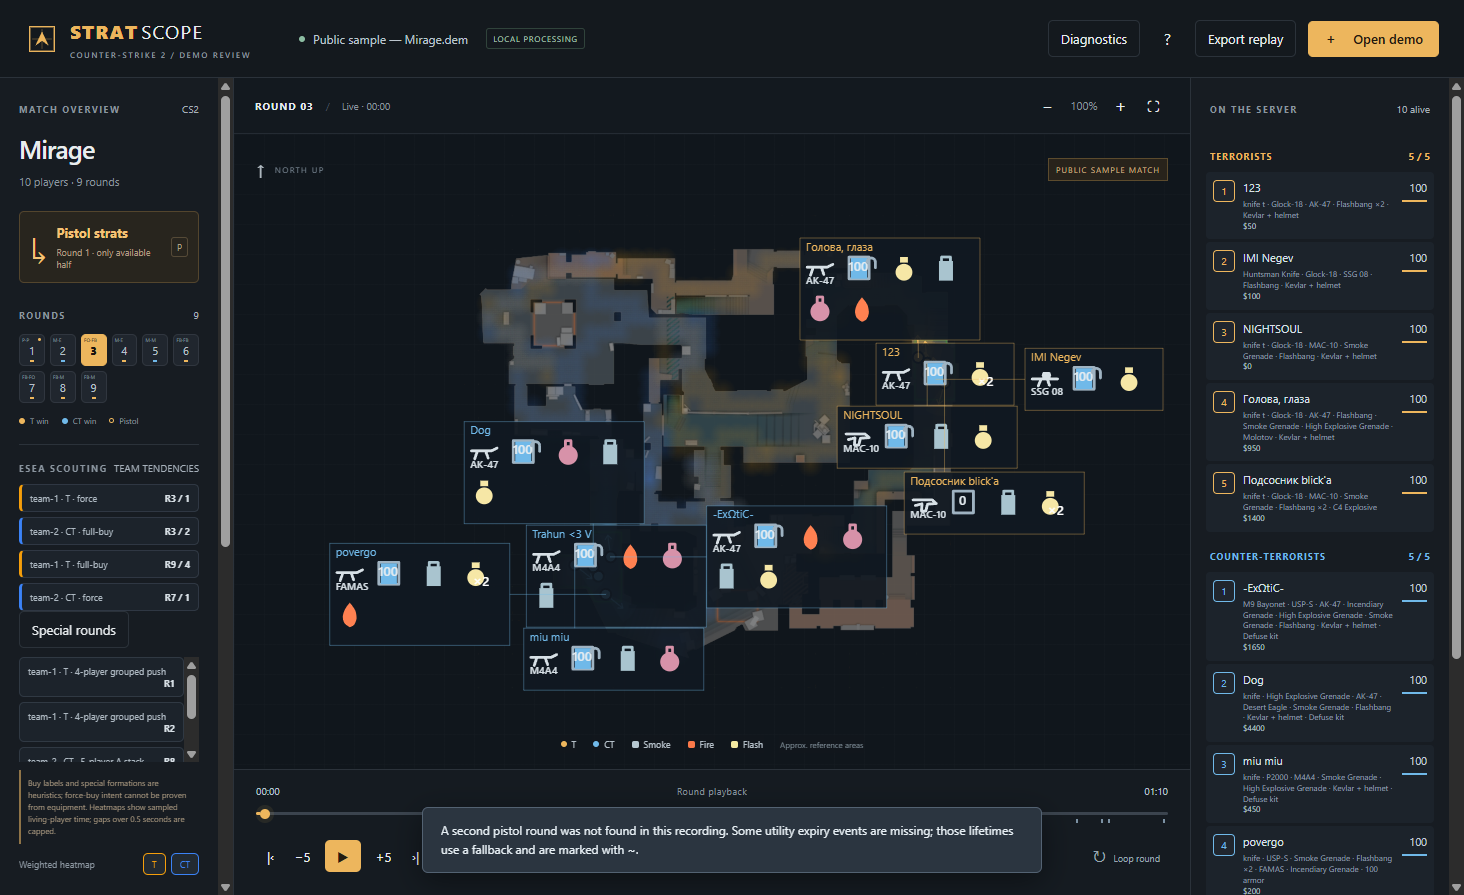
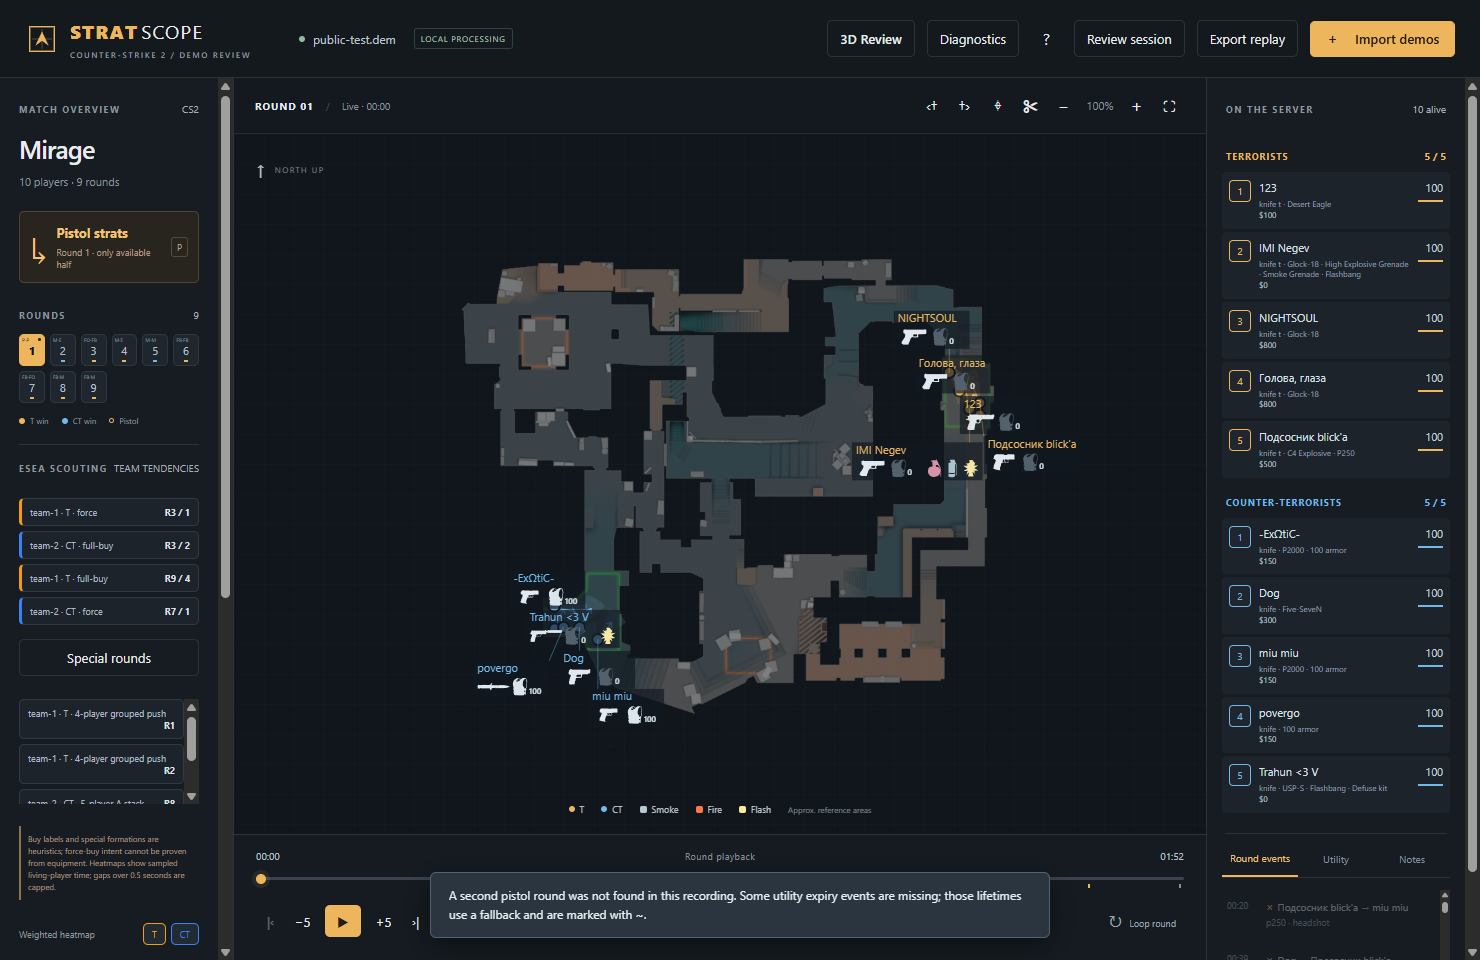
Wire 1.2.0 sessions, scouting and statistics into the viewer

diff --git a/web/style.css b/web/style.css
@@ -1,4 +1,5 @@
 @import url('data:text/css,');
+@import url('./scouting.css');
 :root{color-scheme:dark;--bg:#101419;--panel:#171c22;--panel2:#1c232b;--line:#2b323a;--muted:#8a959f;--text:#e9edef;--accent:#edb65d;--t:#edb65d;--ct:#70b9e9;--fire:#fb7949;--smoke:#b6c8d1;--flash:#f3e9a0;font-family:Inter,Segoe UI,Arial,sans-serif;font-size:13px}*{box-sizing:border-box}body{margin:0;background:var(--bg);color:var(--text)}button,input,select,textarea{font:inherit}button,.button,select{border:1px solid var(--line);border-radius:5px;background:var(--panel2);color:var(--text)}button,.button{cursor:pointer;transition:background .15s,border-color .15s}button:hover,.button:hover{background:#2c3540;border-color:#55616c}button:disabled{opacity:.35;cursor:default}button:focus-visible,input:focus-visible,select:focus-visible,textarea:focus-visible,summary:focus-visible{outline:2px solid var(--accent);outline-offset:3px}button:disabled:hover{background:var(--panel2);border-color:var(--line)}a{color:inherit}button,input{accent-color:var(--accent)}[hidden]{display:none!important}.topbar{height:78px;padding:0 25px;display:flex;align-items:center;gap:12px;border-bottom:1px solid var(--line);background:#14191e}.brand{text-decoration:none;display:flex;align-items:center;gap:11px;color:var(--accent);font-size:19px;font-weight:800;letter-spacing:1.2px;white-space:nowrap}.brand-light{color:var(--text);font-weight:400;margin-left:3px}.brand small{display:block;color:var(--muted);font-size:8px;font-weight:500;letter-spacing:1.6px;margin-top:5px}.file-context{margin-left:36px;display:flex;align-items:center;gap:8px;flex:1;min-width:0;font-size:12px;color:#bdc6ce}#file-name{white-space:nowrap;overflow:hidden;text-overflow:ellipsis;max-width:360px}.status-dot{display:inline-block;flex-shrink:0;width:6px;height:6px;border-radius:50%;background:#8cbda2}.local-badge{margin-left:10px;border:1px solid #30433b;border-radius:3px;color:#a6c2b0;padding:4px 6px;font-size:8px;letter-spacing:.8px;white-space:nowrap}.button{display:inline-flex;align-items:center;justify-content:center;gap:16px;min-height:36px;padding:8px 15px;text-decoration:none;font-weight:600}.primary{background:var(--accent);color:#211a0e;border-color:var(--accent)}.primary:hover{background:#f8cb83;border-color:#f8cb83}.quiet{padding:9px 12px;background:transparent}.icon-button{display:inline-flex;justify-content:center;align-items:center;background:transparent;border-color:transparent;width:31px;height:31px;font-size:16px;flex-shrink:0}.text-button{border:0;background:transparent;color:var(--muted);padding:3px;font-size:11px}.text-button:hover{background:transparent;color:var(--text)}.workspace{height:calc(100dvh - 78px);min-height:650px;display:grid;grid-template-columns:234px minmax(450px,1fr) 274px}.left-panel,.right-panel{background:var(--panel);padding:24px 19px 15px;display:flex;flex-direction:column;min-width:0;overflow:auto}.left-panel{border-right:1px solid var(--line)}.right-panel{border-left:1px solid var(--line)}.section-label{font-size:9px;letter-spacing:1.5px;color:var(--muted);display:flex;align-items:center;justify-content:space-between;font-weight:700}.section-label>span{font-size:10px;letter-spacing:0;font-weight:400;color:#a6b0ba}.map-title{margin:16px 0 22px}.map-title h1{font-size:25px;letter-spacing:-.8px;font-weight:600;margin:0 0 7px}.map-title>span{color:var(--muted);font-size:11px}.pistol-button{width:100%;display:flex;align-items:center;gap:10px;padding:12px 10px;text-align:left;background:#28251e;border:1px solid #53452d;color:#f4c376;font-size:13px;font-weight:650}.pistol-button small{display:block;font-size:9px;color:#af9d83;font-weight:400;margin-top:5px}.pistol-button:hover,.pistol-button.active{background:#3b3021;border-color:var(--accent)}.pistol-symbol{font-size:29px;font-weight:400;line-height:20px}.key-tag{margin-left:auto;border:1px solid #554a37;color:#b1a289;font-size:9px;border-radius:3px;padding:3px 5px;font-weight:400}.rounds-heading{margin:25px 0 12px}.round-grid{display:grid;grid-template-columns:repeat(6,minmax(0,1fr));gap:5px;max-height:185px;overflow:auto}.round-button{height:32px;position:relative;background:#20262e;font-size:11px;padding:0;color:#b7c0c9;border-color:#30363f;font-variant-numeric:tabular-nums}.round-button.selected{color:#17140e;background:var(--accent);border-color:var(--accent);font-weight:800}.round-button .win-dot{position:absolute;bottom:3px;left:calc(50% - 2px);width:4px;height:2px;border-radius:0}.round-button.pistol:before{content:"";position:absolute;right:3px;top:3px;width:3px;height:3px;background:var(--accent);border-radius:50%}.round-button.pistol.selected:before{background:#272016}.round-legend{display:flex;align-items:center;gap:5px;font-size:8px;color:var(--muted);margin-top:12px}.round-legend i:not(:first-child){margin-left:8px}.dot{display:inline-block;width:6px;height:6px;border-radius:50%;flex-shrink:0}.t{background:var(--t)}.ct{background:var(--ct)}.pistol-dot{width:5px;height:5px;border:1px solid var(--accent);border-radius:50%}.divider{border-top:1px solid var(--line);margin:22px 0}.muted{color:var(--muted)}.micro{font-size:10px;line-height:1.6}.placeholder-text{grid-column:1/-1;font-size:11px;line-height:1.9;margin:12px 0 8px}select{width:100%;padding:9px 10px;background:#1d242c;color:#c8d0d7;font-size:11px}#team-filter{margin-top:11px}.layer-heading{margin:16px 0 9px}.toggle-row{display:flex;justify-content:space-between;align-items:center;padding:8px 0;color:#bcc5cd;font-size:11px;cursor:pointer;position:relative}.toggle-row input{position:absolute;opacity:0;width:31px;height:20px;right:0}.toggle-row i{height:14px;width:26px;background:#39414a;border-radius:9px;position:relative}.toggle-row i:after{content:"";position:absolute;background:#9aa5ae;height:10px;width:10px;top:2px;left:2px;border-radius:50%;transition:left .15s}.toggle-row input:checked+i{background:#665435}.toggle-row input:checked+i:after{background:var(--accent);left:14px}.toggle-row input:focus-visible+i{outline:2px solid var(--accent);outline-offset:3px}.panel-foot{margin-top:auto;padding-top:22px;color:#7e8b95;line-height:2.1;font-size:9px}.panel-foot .status-dot{margin-right:5px;width:5px;height:5px}.panel-foot button{padding:0;font-size:9px}.viewer{display:flex;flex-direction:column;min-width:0;min-height:0}.viewer-toolbar{height:56px;flex-shrink:0;padding:0 21px;display:flex;align-items:center;justify-content:space-between;border-bottom:1px solid #242b33;background:#13191f;gap:10px}.round-info{display:flex;gap:12px;font-size:10px;align-items:center;white-space:nowrap}#round-label{font-weight:700;letter-spacing:1px}.separator{color:#4b5660}#phase{color:var(--muted);font-variant-numeric:tabular-nums}.view-tools{display:flex;align-items:center;gap:2px}#floor-select{width:auto;max-width:150px;margin-right:8px;padding:5px;font-size:10px}#zoom-reset{min-width:38px;font-variant-numeric:tabular-nums}.map-wrap{flex:1;min-height:350px;position:relative;overflow:hidden;background-color:#10161c;background-image:linear-gradient(#ffffff03 1px,transparent 1px),linear-gradient(90deg,#ffffff03 1px,transparent 1px);background-size:30px 30px}canvas{width:100%;height:100%;display:block;touch-action:none;cursor:grab}canvas.dragging{cursor:grabbing}.map-corner{position:absolute;top:22px;left:22px;font-size:8px;color:#75828e;letter-spacing:1.4px;pointer-events:none;display:flex;align-items:center;gap:8px}.north-arrow{font-size:20px;color:#b6c0c7}.sample-badge{position:absolute;top:24px;right:22px;color:#c3ab80;background:#28231b;border:1px solid #5c4b2d;padding:5px 7px;font-size:8px;letter-spacing:1px}.map-legend{position:absolute;bottom:16px;left:0;right:0;display:flex;justify-content:center;gap:15px;font-size:9px;color:#b5c0c9;pointer-events:none;flex-wrap:wrap}.map-legend>span{display:flex;align-items:center;gap:5px;background:#11171bcc;padding:3px 1px}.utility-dot{width:7px;height:7px;border-radius:2px;display:inline-block}.smoke{background:var(--smoke)}.fire{background:var(--fire)}.flash{background:var(--flash)}.approx-label{color:#7d8b96!important;font-size:8px}.empty-state,.loading-state{position:absolute;left:50%;top:48%;transform:translate(-50%,-50%);text-align:center;width:430px;max-width:90%;padding:35px 25px;background:#12191ee8;border:1px solid #3a4246;border-radius:8px;box-shadow:0 20px 100px #0008}.eyebrow{font-size:9px;letter-spacing:2.2px;color:var(--accent);font-weight:600}.empty-state h2{font-size:35px;font-weight:500;letter-spacing:-1.5px;line-height:1.12;margin:16px 0}.empty-state p{font-size:12px;line-height:1.8;color:#9daab4;margin:0 0 24px}.empty-state .button{padding:12px 22px;font-size:12px}.sample-link{display:block;margin:19px auto 0;border:0;background:none;color:#adb9c2;font-size:11px;padding:4px}.sample-link:hover{background:none;color:var(--accent)}.file-note{display:block;margin-top:28px;font-size:8px;letter-spacing:1px;color:#778590}.loading-state h2{font-size:22px;font-weight:500}.loading-state p{font-size:12px;color:#a6b4bf}.loading-state progress{width:85%;height:5px;margin:15px auto;border:0;accent-color:var(--accent)}progress::-webkit-progress-bar{background:#35404a}progress::-webkit-progress-value{background:var(--accent)}.spinner{width:25px;height:25px;margin:0 auto;border:2px solid #54472d;border-top-color:var(--accent);border-radius:50%;animation:spin 1s linear infinite}@keyframes spin{to{transform:rotate(360deg)}}.map-error{position:absolute;left:50%;top:45%;transform:translate(-50%,-50%);width:80%;padding:20px;text-align:center;font-size:13px;line-height:1.7;background:#241d18e8;border:1px solid #b78549;color:#f0cfa4;border-radius:5px}.playback{border-top:1px solid var(--line);background:#151b21;padding:14px 22px 18px;height:126px;flex-shrink:0}.timeline-info{display:flex;align-items:center;justify-content:space-between;font-size:10px;font-variant-numeric:tabular-nums;color:#b8c3cd}#mode-label{font-size:9px;color:var(--muted);letter-spacing:.5px}.timeline-wrap{position:relative;height:25px;margin:3px 0 10px;display:flex;align-items:center}#timeline{width:100%;margin:0;cursor:pointer;position:relative;z-index:2;height:15px;appearance:none;background:transparent}#timeline::-webkit-slider-runnable-track{height:3px;background:linear-gradient(to right,var(--accent) var(--played,0%),#3b444e var(--played,0%));border-radius:3px}#timeline::-webkit-slider-thumb{appearance:none;width:10px;height:10px;border-radius:50%;background:var(--accent);margin-top:-3.5px;box-shadow:0 0 0 4px #edb65d16}#timeline::-moz-range-track{height:3px;background:#3b444e}#timeline::-moz-range-thumb{width:10px;height:10px;background:var(--accent);border:0}#event-marks{position:absolute;left:5px;right:5px;top:14px;height:10px;pointer-events:none}#event-marks i{position:absolute;top:4px;width:2px;height:4px;background:#7c8e9e}.playback-controls{display:flex;align-items:center;justify-content:space-between;gap:8px}.transport{display:flex;align-items:center;gap:3px}.transport .icon-button{font-size:13px;width:29px}.play-button{width:36px;height:32px;margin:0 5px;background:var(--accent);color:#251d10;border:0;font-size:14px}.play-button:hover{background:#f8cb83}.speeds{display:flex;border:1px solid #303943;border-radius:5px;padding:2px;gap:1px}.speeds button{background:transparent;border:0;font-size:10px;padding:6px 7px;color:#8f9ca6;min-width:32px}.speeds button.selected{background:#35404b;color:#f1f3f5}.loop-button{padding:7px;border-color:transparent;background:transparent;color:#99a7b1;font-size:17px;white-space:nowrap}.loop-button span{font-size:9px;vertical-align:middle;margin-left:3px}.loop-button.active{color:var(--accent);border-color:#5c4b2e;background:#2e281f}.right-panel{padding:24px 15px 14px}.right-panel>.section-label{margin:0 4px 16px}.team-head{font-size:9px;letter-spacing:1px;display:flex;justify-content:space-between;align-items:center;font-weight:700;margin:17px 4px 9px}.t-text{color:var(--t)}.ct-text{color:var(--ct)}.team-head span{font-size:10px;letter-spacing:0;font-variant-numeric:tabular-nums}.roster-placeholder p{color:var(--muted);font-size:11px;line-height:1.8;margin:18px 4px 35px}.player-row{display:flex;align-items:center;gap:8px;width:100%;border:1px solid transparent;padding:7px 6px;border-radius:4px;text-align:left;margin-bottom:3px;background:#1c232b;min-height:41px}.player-row.selected{border-color:var(--accent);background:#2e2b24}.player-row.dead{opacity:.42}.player-row.unfocused{opacity:.25}.player-number{height:22px;width:22px;border:1px solid currentColor;display:flex;align-items:center;justify-content:center;flex-shrink:0;border-radius:4px;font-size:10px;background:#ffffff04}.player-details{min-width:0;flex:1}.player-name{font-size:11px;display:block;white-space:nowrap;overflow:hidden;text-overflow:ellipsis;max-width:150px;color:#d9e1e7}.loadout{font-size:8px;color:#8f9ea9;display:block;margin-top:4px;white-space:nowrap;overflow:hidden;text-overflow:ellipsis}.player-hp{text-align:right;font-size:11px;font-variant-numeric:tabular-nums;color:#c3cdd6;min-width:23px}.hp-track{height:2px;background:#35414c;width:25px;margin-top:5px}.hp-fill{height:100%;background:currentColor}.right-panel .divider{margin:17px 3px}.right-tabs{display:flex;border-bottom:1px solid var(--line);margin-bottom:12px}.right-tabs button{flex:1;border:0;border-radius:0;background:none;color:#84939e;font-size:10px;padding:0 0 10px;white-space:nowrap}.right-tabs button.selected{color:#e8c17e;border-bottom:2px solid var(--accent)}.tab-panel{min-height:85px;flex:1;overflow:auto;scrollbar-width:thin}.event-feed{display:flex;flex-direction:column;gap:5px}.event-row{display:flex;gap:8px;width:100%;background:transparent;border:0;border-radius:3px;padding:8px 5px;text-align:left;font-size:10px;color:#b1bec9;align-items:flex-start}.event-row.future{opacity:.45}.event-row.active{background:#29343f}.event-time{font-size:9px;color:#768997;font-variant-numeric:tabular-nums;flex-shrink:0;min-width:31px;line-height:1.6}.event-row .event-body{line-height:1.6;min-width:0;overflow-wrap:anywhere}.event-row small{font-size:9px;color:#718390;display:block}.event-icon{color:var(--accent);font-size:11px;margin-right:4px}.utility-filters{display:flex;gap:2px;margin-bottom:10px;flex-wrap:wrap}.utility-filters button{font-size:9px;padding:5px;border:0;background:none;color:#83939f}.utility-filters button.selected{background:#303b46;color:#edf1f4}.right-foot{margin-top:auto;padding-top:15px;border-top:1px solid var(--line);display:flex;flex-wrap:wrap;align-items:center;justify-content:space-between;gap:9px;color:#80919e;font-size:10px}.shortcut-hint{font-size:8px;letter-spacing:.5px;width:100%;color:#647887}textarea{width:100%;resize:vertical;border:1px solid #3c4651;border-radius:4px;background:#141a20;color:#dce5eb;padding:10px;font-size:11px;line-height:1.5}textarea::placeholder{color:#667c8d}.secondary{background:#263340;color:#cbd9e3;border-color:#3b4a56}#add-note{margin:8px 0 14px;width:100%;font-size:10px;padding:6px}.note{padding:10px 5px;border-bottom:1px solid var(--line);font-size:11px;line-height:1.6;overflow-wrap:anywhere}.note-controls{display:flex;justify-content:space-between;margin-bottom:6px}.note-controls button{font-size:9px;background:transparent;border:0;color:var(--accent)}#toast{position:fixed;bottom:22px;left:50%;transform:translateX(-50%);max-width:620px;width:max-content;z-index:100;background:#2b3540;color:#e8f0f5;border:1px solid #536272;box-shadow:0 8px 30px #0006;border-radius:6px;padding:13px 18px;font-size:12px;line-height:1.6}#drop-overlay{position:absolute;inset:10px;background:#202c36ef;border:2px dashed var(--accent);border-radius:7px;display:flex;justify-content:center;align-items:center;flex-direction:column;font-size:26px;color:var(--accent);z-index:20;pointer-events:none}#drop-overlay span{font-size:12px;margin-top:15px;color:#a5b8c7}dialog{background:#1b242c;border:1px solid #4a5965;border-radius:9px;color:#bdccd6;width:620px;max-width:90vw;max-height:85vh;padding:28px;line-height:1.8;font-size:12px;box-shadow:0 20px 100px #0008}dialog::backdrop{background:#070c12aa;backdrop-filter:blur(3px)}.dialog-top{display:flex;justify-content:space-between;gap:10px;align-items:center}.dialog-top h2{font-size:25px;margin:0 0 10px;color:#eff3f6;letter-spacing:-.5px;font-weight:500}dialog h3{color:var(--accent);font-size:12px;margin-top:23px}dialog li{margin:8px 0}dialog strong{color:#e2eaf0}dialog summary{cursor:pointer;color:#d9b77f}.keyboard-grid{display:grid;grid-template-columns:100px 1fr;gap:6px}.keyboard-grid span:nth-child(odd){color:#f1e5cd}.credits{border-top:1px solid #3c4852;padding-top:15px;margin-top:20px}.custom-map{display:grid;grid-template-columns:1fr 1fr;gap:10px;margin:15px 0}.custom-map label{font-size:10px;display:block}.custom-map label:first-child,.custom-map p{grid-column:1/-1}.custom-map input{width:100%;background:#111a22;border:1px solid #425260;color:#d6e1ea;padding:6px}.custom-map button{align-self:end}.viewer:fullscreen{background:var(--bg);width:100vw;height:100vh}.viewer:fullscreen .map-wrap{min-height:0}
 @media(min-width:1600px){.workspace{grid-template-columns:260px minmax(450px,1fr) 300px}.left-panel{padding-left:24px;padding-right:24px}.right-panel{padding-left:20px;padding-right:20px}.player-name{max-width:170px}.speeds button{padding:6px 10px}}
 @media(max-width:1180px){.workspace{grid-template-columns:205px minmax(400px,1fr) 235px}.left-panel{padding:20px 13px 12px}.right-panel{padding:20px 10px 12px}.topbar{padding:0 18px}.file-context{margin-left:15px}.local-badge{display:none}.viewer-toolbar{padding:0 12px}.playback{padding:14px 12px 18px}.loop-button span{display:none}.speeds button{min-width:29px;padding:6px 4px}.player-name{max-width:117px}.map-title h1{font-size:22px}.view-tools .icon-button{width:25px}}
@@ -9,3 +10,4 @@
 .round-grid{flex-shrink:0}.buy-label{position:absolute;top:2px;left:3px;font-size:6px;color:#77838d;font-weight:500}.round-button.selected .buy-label{color:#5a482c}.scouting{margin-top:18px;border-top:1px solid var(--line);padding-top:16px;flex-shrink:0}.scout-rounds,.scout-specials{display:flex;flex-direction:column;gap:5px;margin-top:9px}.scout-specials{max-height:105px;overflow:auto}.scout-button,.special-button{width:100%;padding:7px 8px;text-align:left;font-size:9px;background:#1c232b;border-color:#303943;color:#aeb9c2}.scout-button b,.special-button b{float:right;color:#d9e1e7}.t-scout{border-left:3px solid #f59e0b}.ct-scout{border-left:3px solid #3b82f6}.heatmap-controls{display:flex;align-items:center;gap:5px;margin-top:9px;font-size:9px;color:var(--muted)}.heatmap-controls span{margin-right:auto}.heatmap-controls button{font-size:9px;padding:4px 8px;background:#222a32}.heatmap-controls button:first-of-type.selected{color:#f59e0b;border-color:#f59e0b}.heatmap-controls button:last-child.selected{color:#3b82f6;border-color:#3b82f6}.loadout{white-space:normal;line-height:1.35}.loadout em{color:#b6c0c8;font-style:normal}.player-row{align-items:flex-start}
 @media(max-width:950px) and (min-width:601px){.workspace{grid-template-columns:185px minmax(360px,1fr) 235px}.right-panel{display:flex}}
 .scout-warnings{margin-top:8px;padding:7px;border-left:2px solid #8f7448;color:#aa9980;font-size:8px;line-height:1.5}.buy-label{font-size:5px!important;left:2px!important}
+#session-dialog{width:1100px;max-width:95vw;padding:24px;overflow:auto}#session-dialog h2{margin:0}.session-tabs,.session-actions{display:flex;gap:8px;align-items:center;flex-wrap:wrap;margin:12px 0}.session-tabs{border-bottom:1px solid var(--line);padding-bottom:12px;position:sticky;top:-24px;background:#1b242c;z-index:2}.session-tabs button{padding:8px 13px}.session-tabs [aria-pressed=true]{color:var(--accent);border-color:var(--accent)}#session-dialog button{min-height:30px}.review-filters{display:grid;grid-template-columns:repeat(4,minmax(110px,1fr));gap:10px;margin:12px 0}#session-dialog label{display:block;font-size:11px;color:#bdcad4}#session-dialog input:not([type=file]):not([type=range]),#session-dialog select{display:block;width:100%;background:#121b23;border:1px solid #42505d;border-radius:4px;color:var(--text);padding:8px;margin-top:4px}#session-dialog input[type=file]{display:block;margin:8px 0;max-width:100%}.session-match,.playlist-item{padding:12px;border:1px solid var(--line);border-radius:6px;margin:10px 0;background:#171f27}.session-match [aria-current=true]{border-color:var(--accent);color:var(--accent)}.review-results{display:grid;grid-template-columns:repeat(2,minmax(0,1fr));gap:6px;max-height:45vh;overflow:auto}.review-results button{text-align:left;padding:9px;overflow-wrap:anywhere}.table-scroll{max-width:100%;overflow:auto}#review-statistics table{border-collapse:collapse;width:100%;white-space:nowrap;font-variant-numeric:tabular-nums}#review-statistics th,#review-statistics td{text-align:right;padding:7px;border-bottom:1px solid var(--line)}#review-statistics th:first-child,#review-statistics td:first-child{text-align:left}#review-statistics th{color:var(--accent)}.weapon-stat{display:inline-block;margin:5px 12px 5px 0}.playlist-item>button{padding:7px;text-align:left;overflow-wrap:anywhere}.playlist-item p{white-space:pre-wrap;overflow-wrap:anywhere}.topbar #review-button{white-space:nowrap}.view-tools{flex-wrap:wrap}.viewer-toolbar{height:auto;min-height:56px;padding-top:6px;padding-bottom:6px}.session-match summary{cursor:pointer;color:var(--accent)}@media(max-width:750px){.review-filters{grid-template-columns:repeat(2,minmax(100px,1fr))}.review-results{grid-template-columns:1fr}#session-dialog{padding:15px}.session-tabs{top:-15px;gap:4px}.session-tabs button{padding:6px}.topbar{gap:5px}.topbar #review-button{display:block;padding:7px;font-size:11px}.topbar #diagnostics-button{display:none}}

diff --git a/web/index.html b/web/index.html
@@ -8,8 +8,8 @@
   <a id="review-link" class="button quiet" href="./review/index.html" title="Automated 3D review: ratings, critiques and instructive clips">3D Review</a>
   <button id="diagnostics-button" class="quiet" title="View the most recent import report">Diagnostics</button>
   <button id="help-button" class="icon-button" title="Help and keyboard shortcuts" aria-label="Help and keyboard shortcuts">?</button>
-  <button id="export-button" class="quiet" disabled>Export replay</button>
-  <label class="button primary open-label" for="demo-file"><span aria-hidden="true">＋</span> Open demo</label><input type="file" id="demo-file" accept=".dem,.strats,.json" hidden>
+  <button id="review-button" class="quiet">Review session</button><button id="export-button" class="quiet" disabled>Export replay</button>
+  <label class="button primary open-label" for="demo-file"><span aria-hidden="true">＋</span> Import demos</label><input type="file" id="demo-file" accept=".dem,.strats,.stratsession,.json" multiple hidden>
 </header>
 <main class="workspace">
   <aside class="left-panel">
